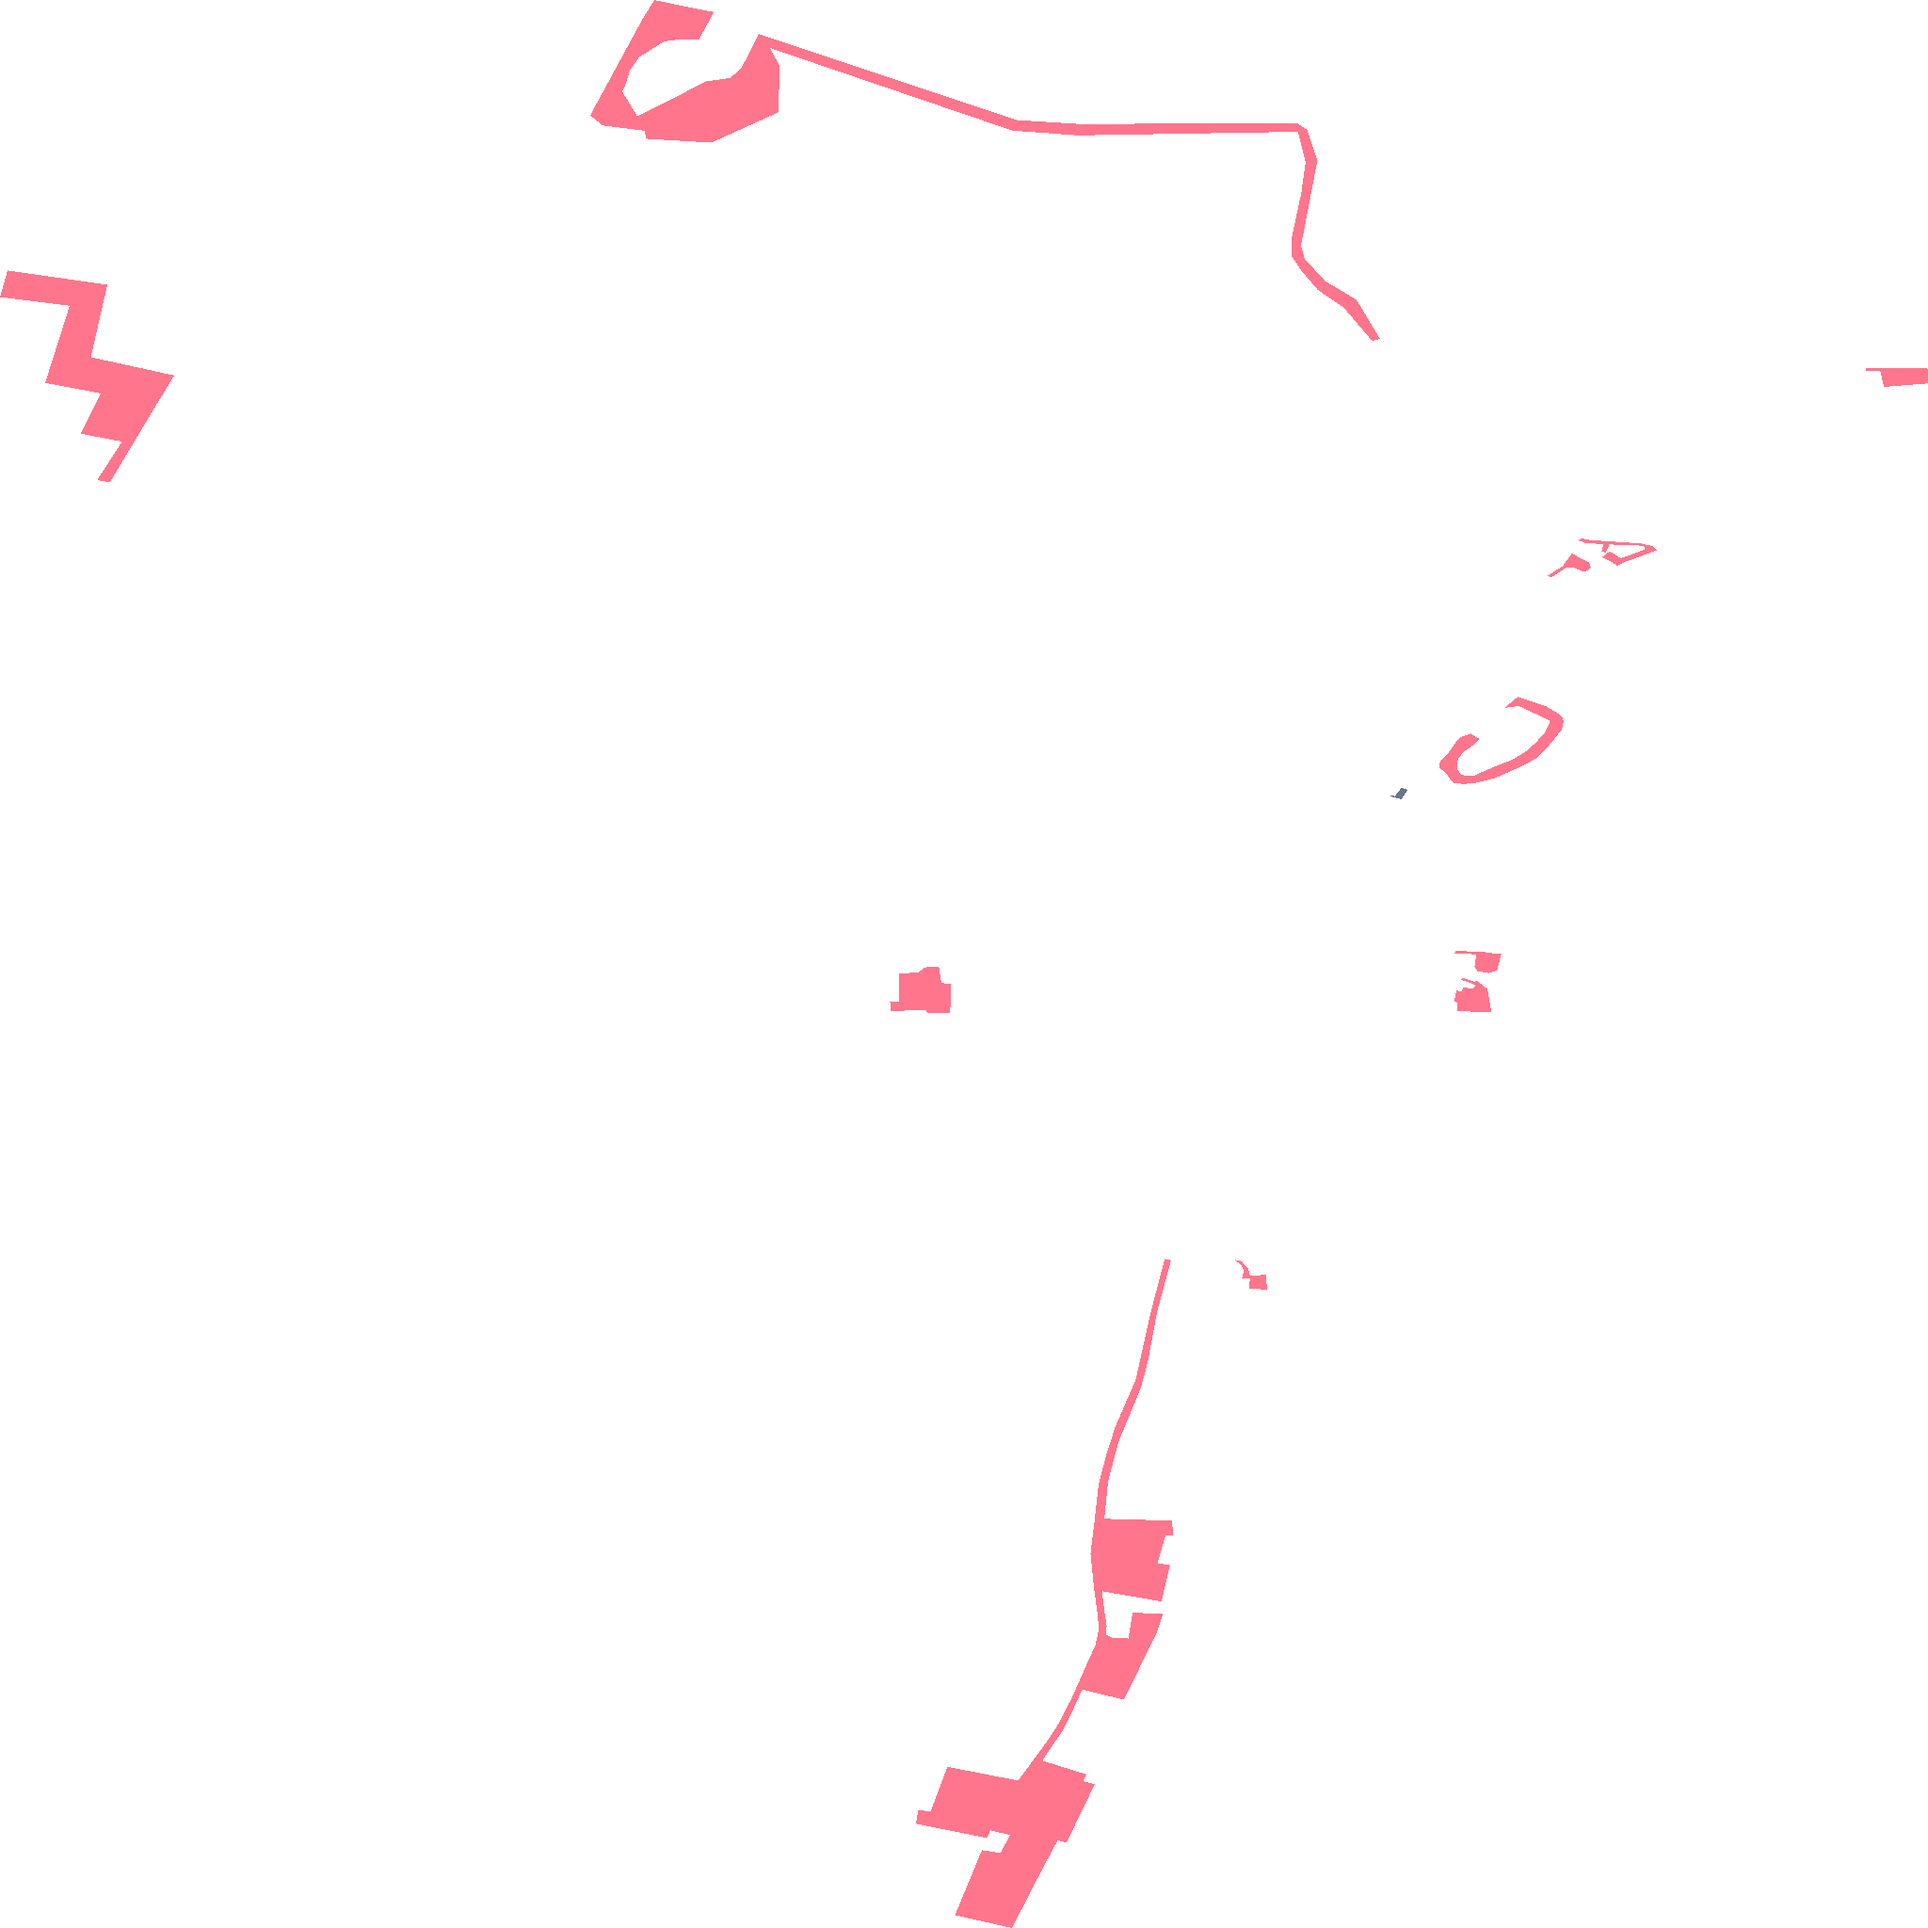
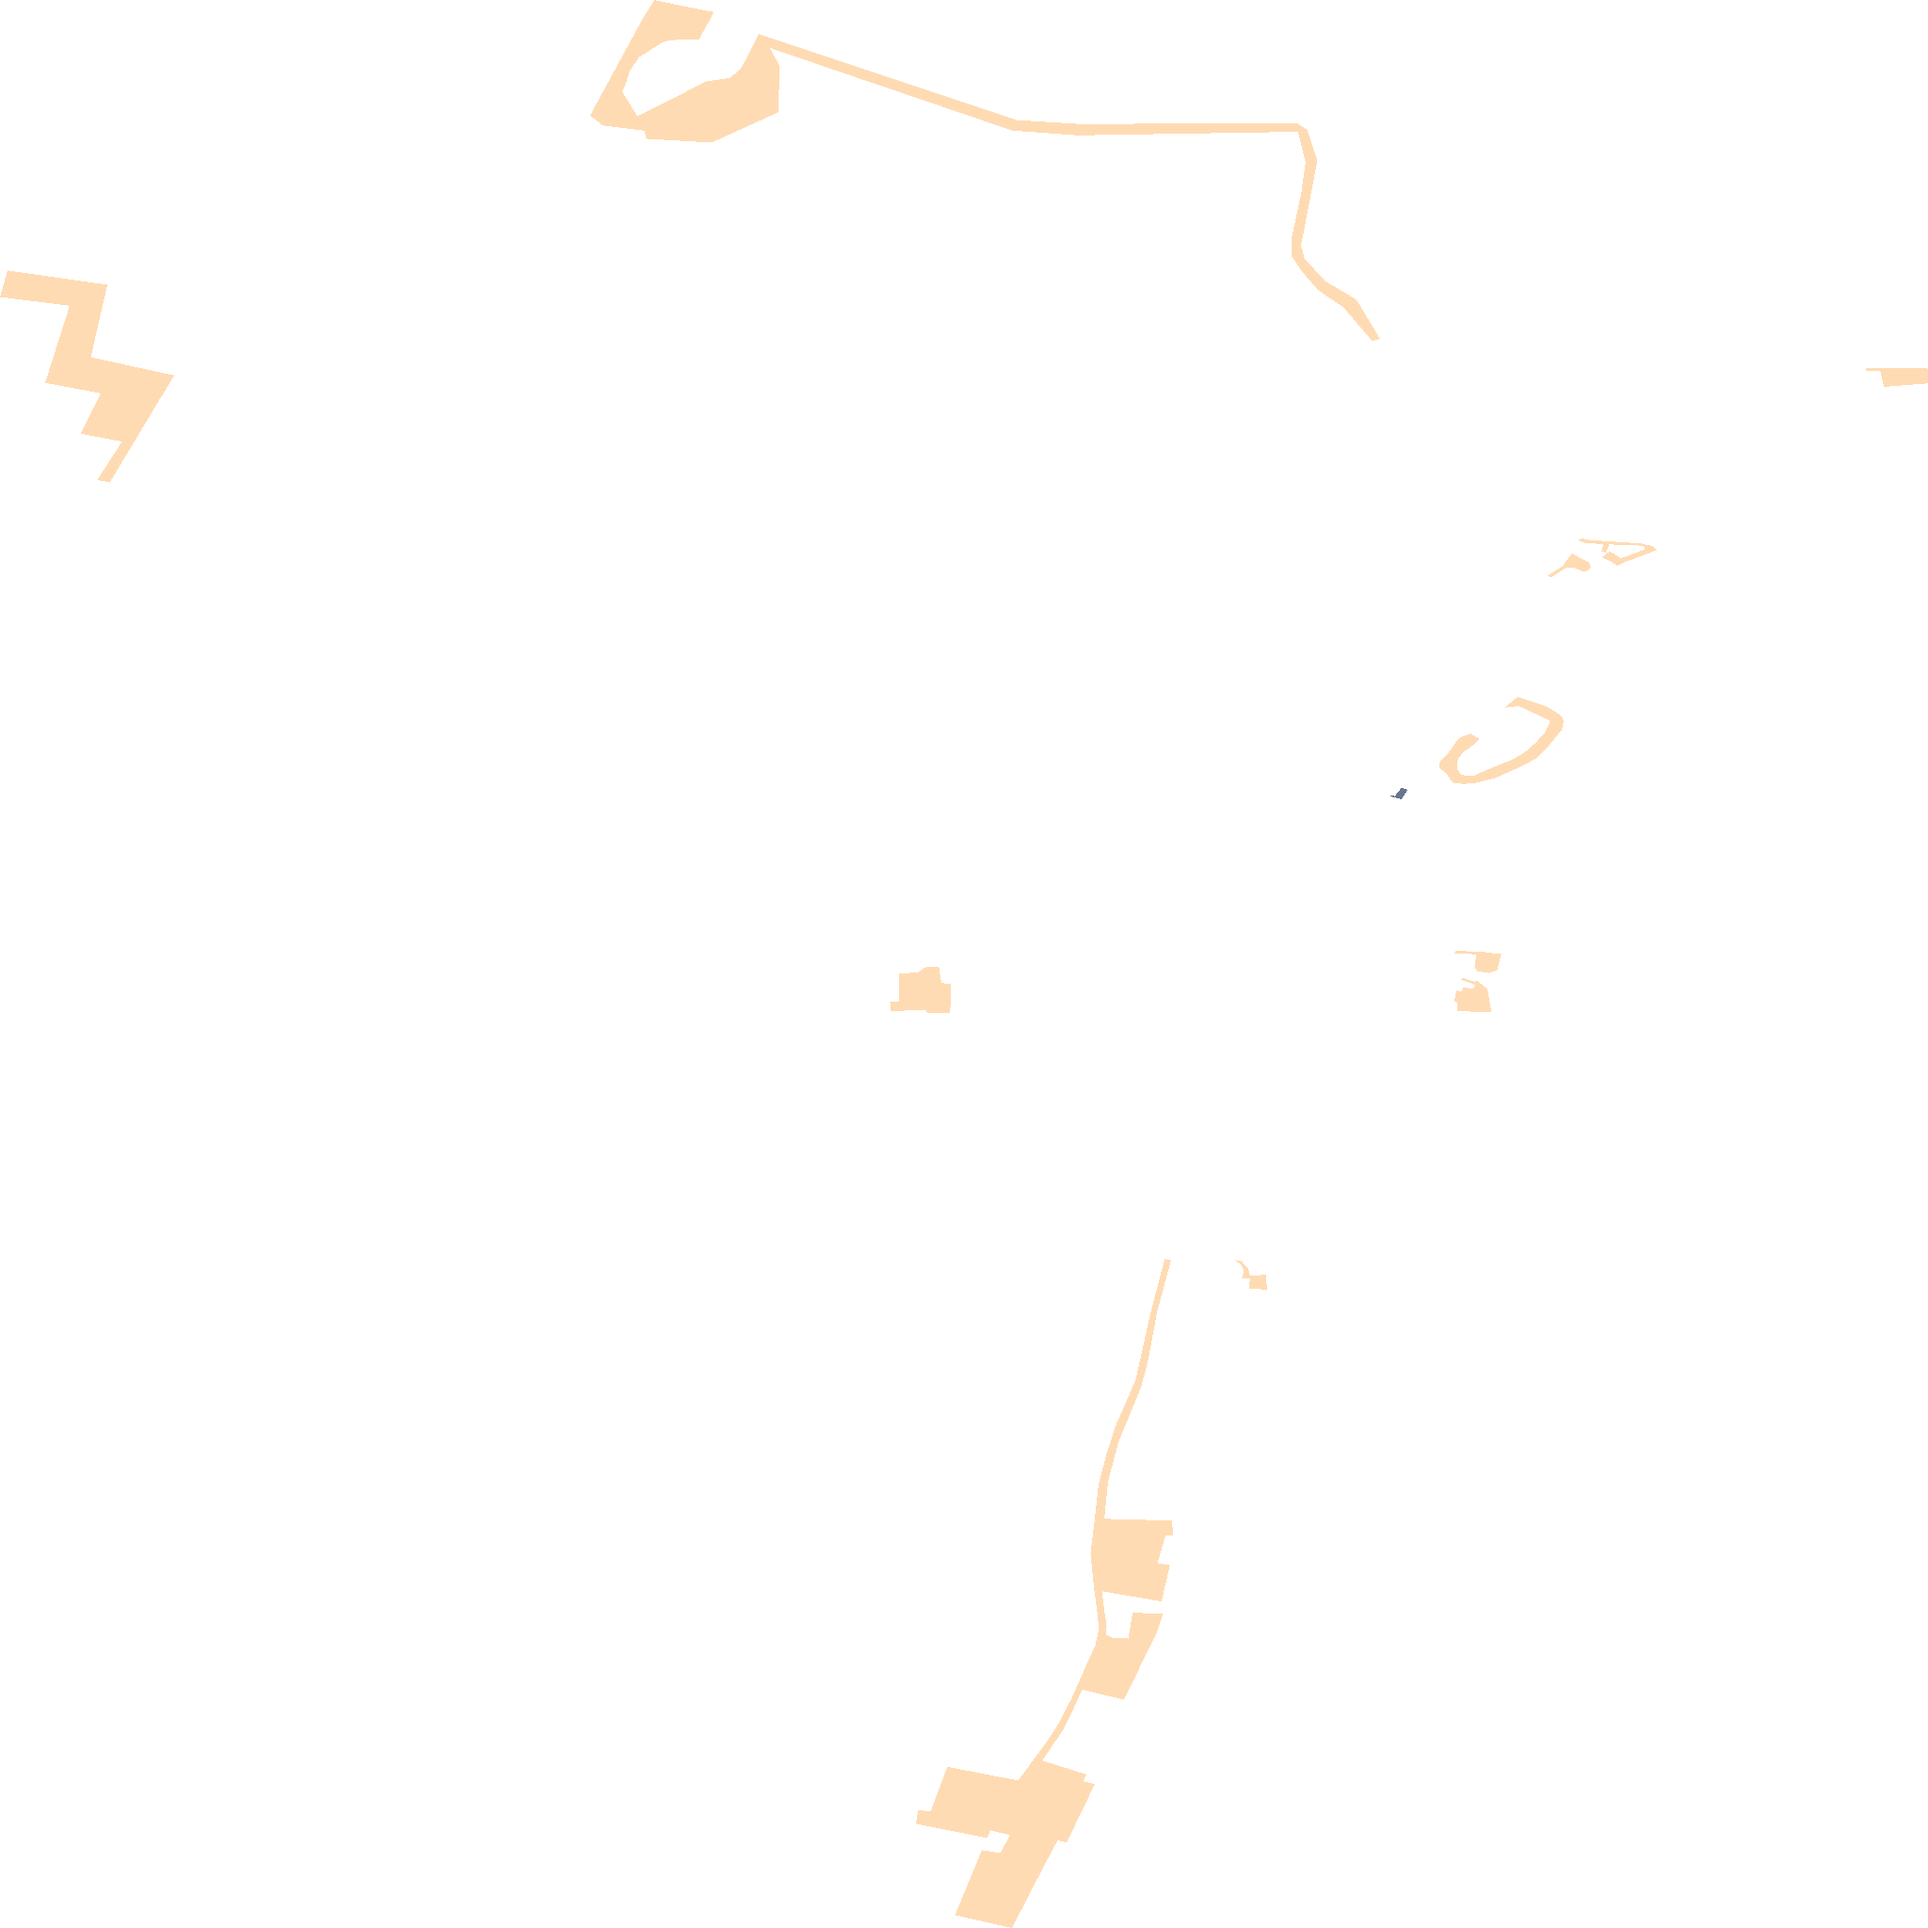
Karte p_596

diff --git a/p_596.html b/p_596.html
@@ -128,8 +128,9 @@
 <body>
     <div id="map"></div>
     <div id="legend">
-        <div><span style="display:inline-block; width:20px; height:10px; background:#FF7F00; margin-right:5px;"></span>Ausbauphase 1: Ausbau bei ausreichender Nachfrage</div>
+        <div><span style="display:inline-block; width:20px; height:10px; background:#FF7F00; margin-right:5px;"></span>Ausbauphase 1: Glasfasernetz vorhanden oder geplant</div>
         <div><span style="display:inline-block;width:20px; height:10px; background:#00143C; margin-right:5px;"></span>Ausbauphase 2: Interessenbekundung möglich</div>
+        <div><span style="display:inline-block;width:20px; height:10px; background:#FFC17D; margin-right:5px;"></span>Ausbauphase 3: Gefördertes Ausbaugebiet </div>
     </div>
     <script>
     const bounds = [[51.867104243, 11.726535322], [51.928591932, 11.796722854]];
